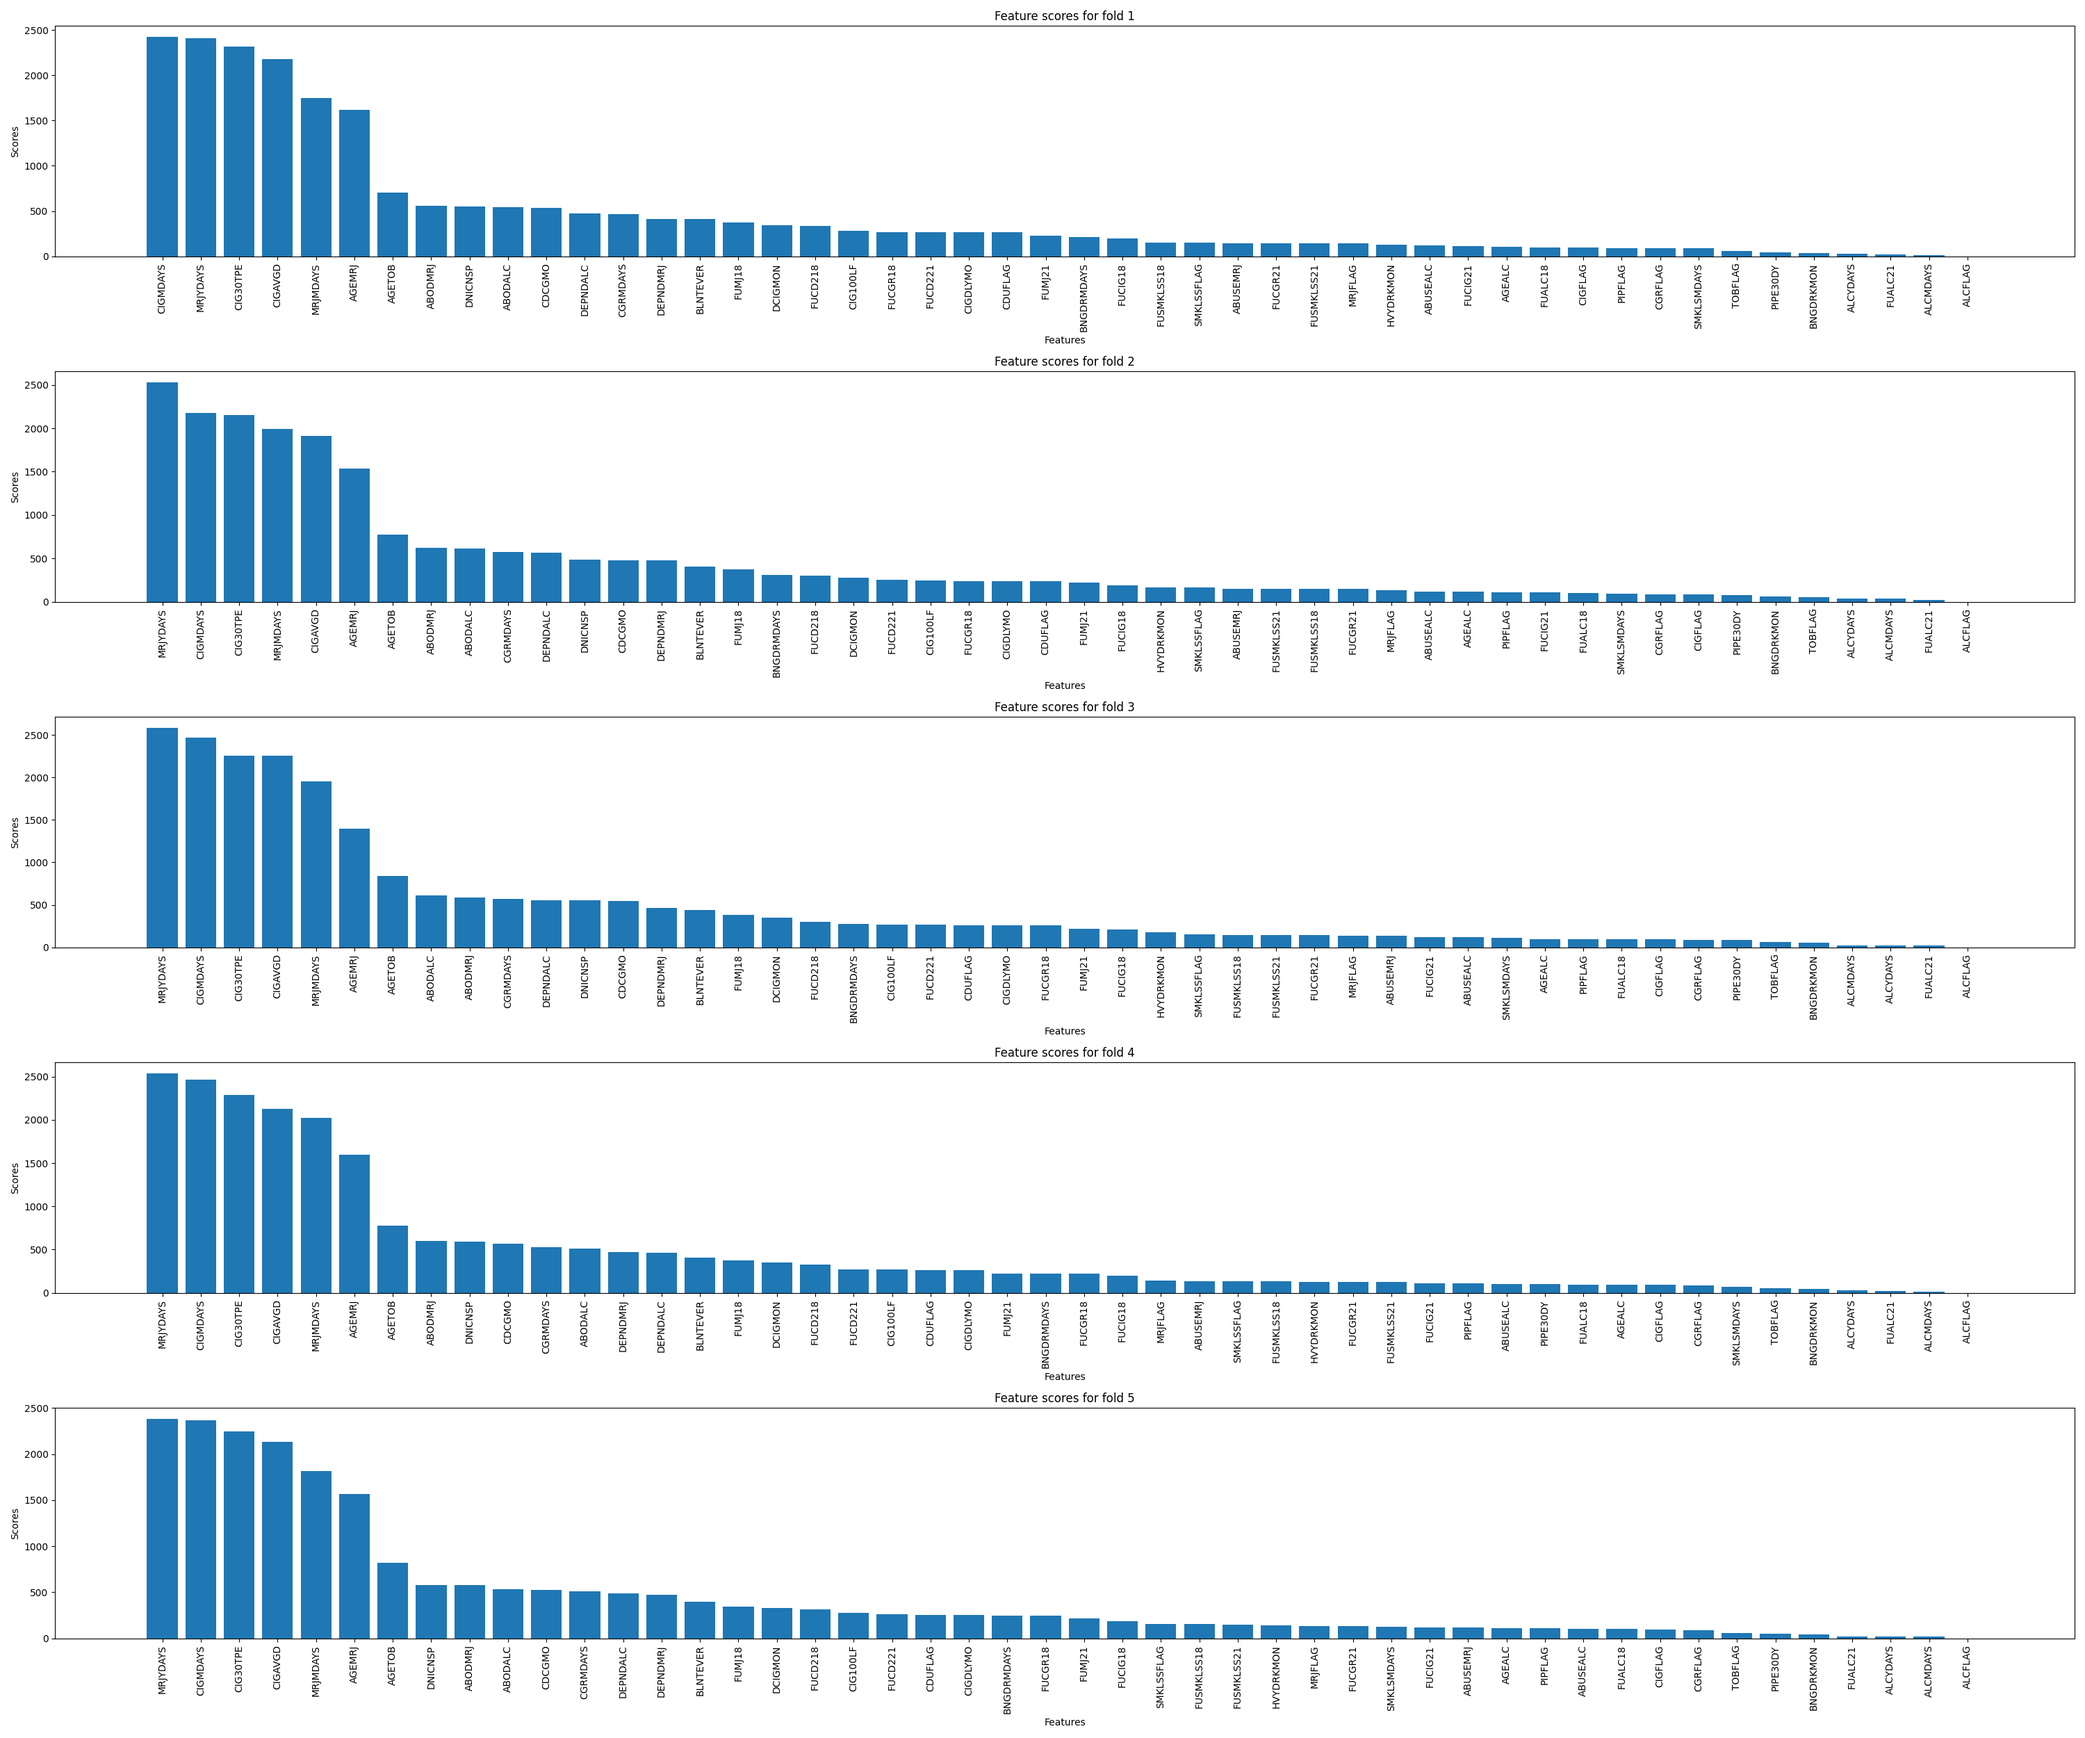
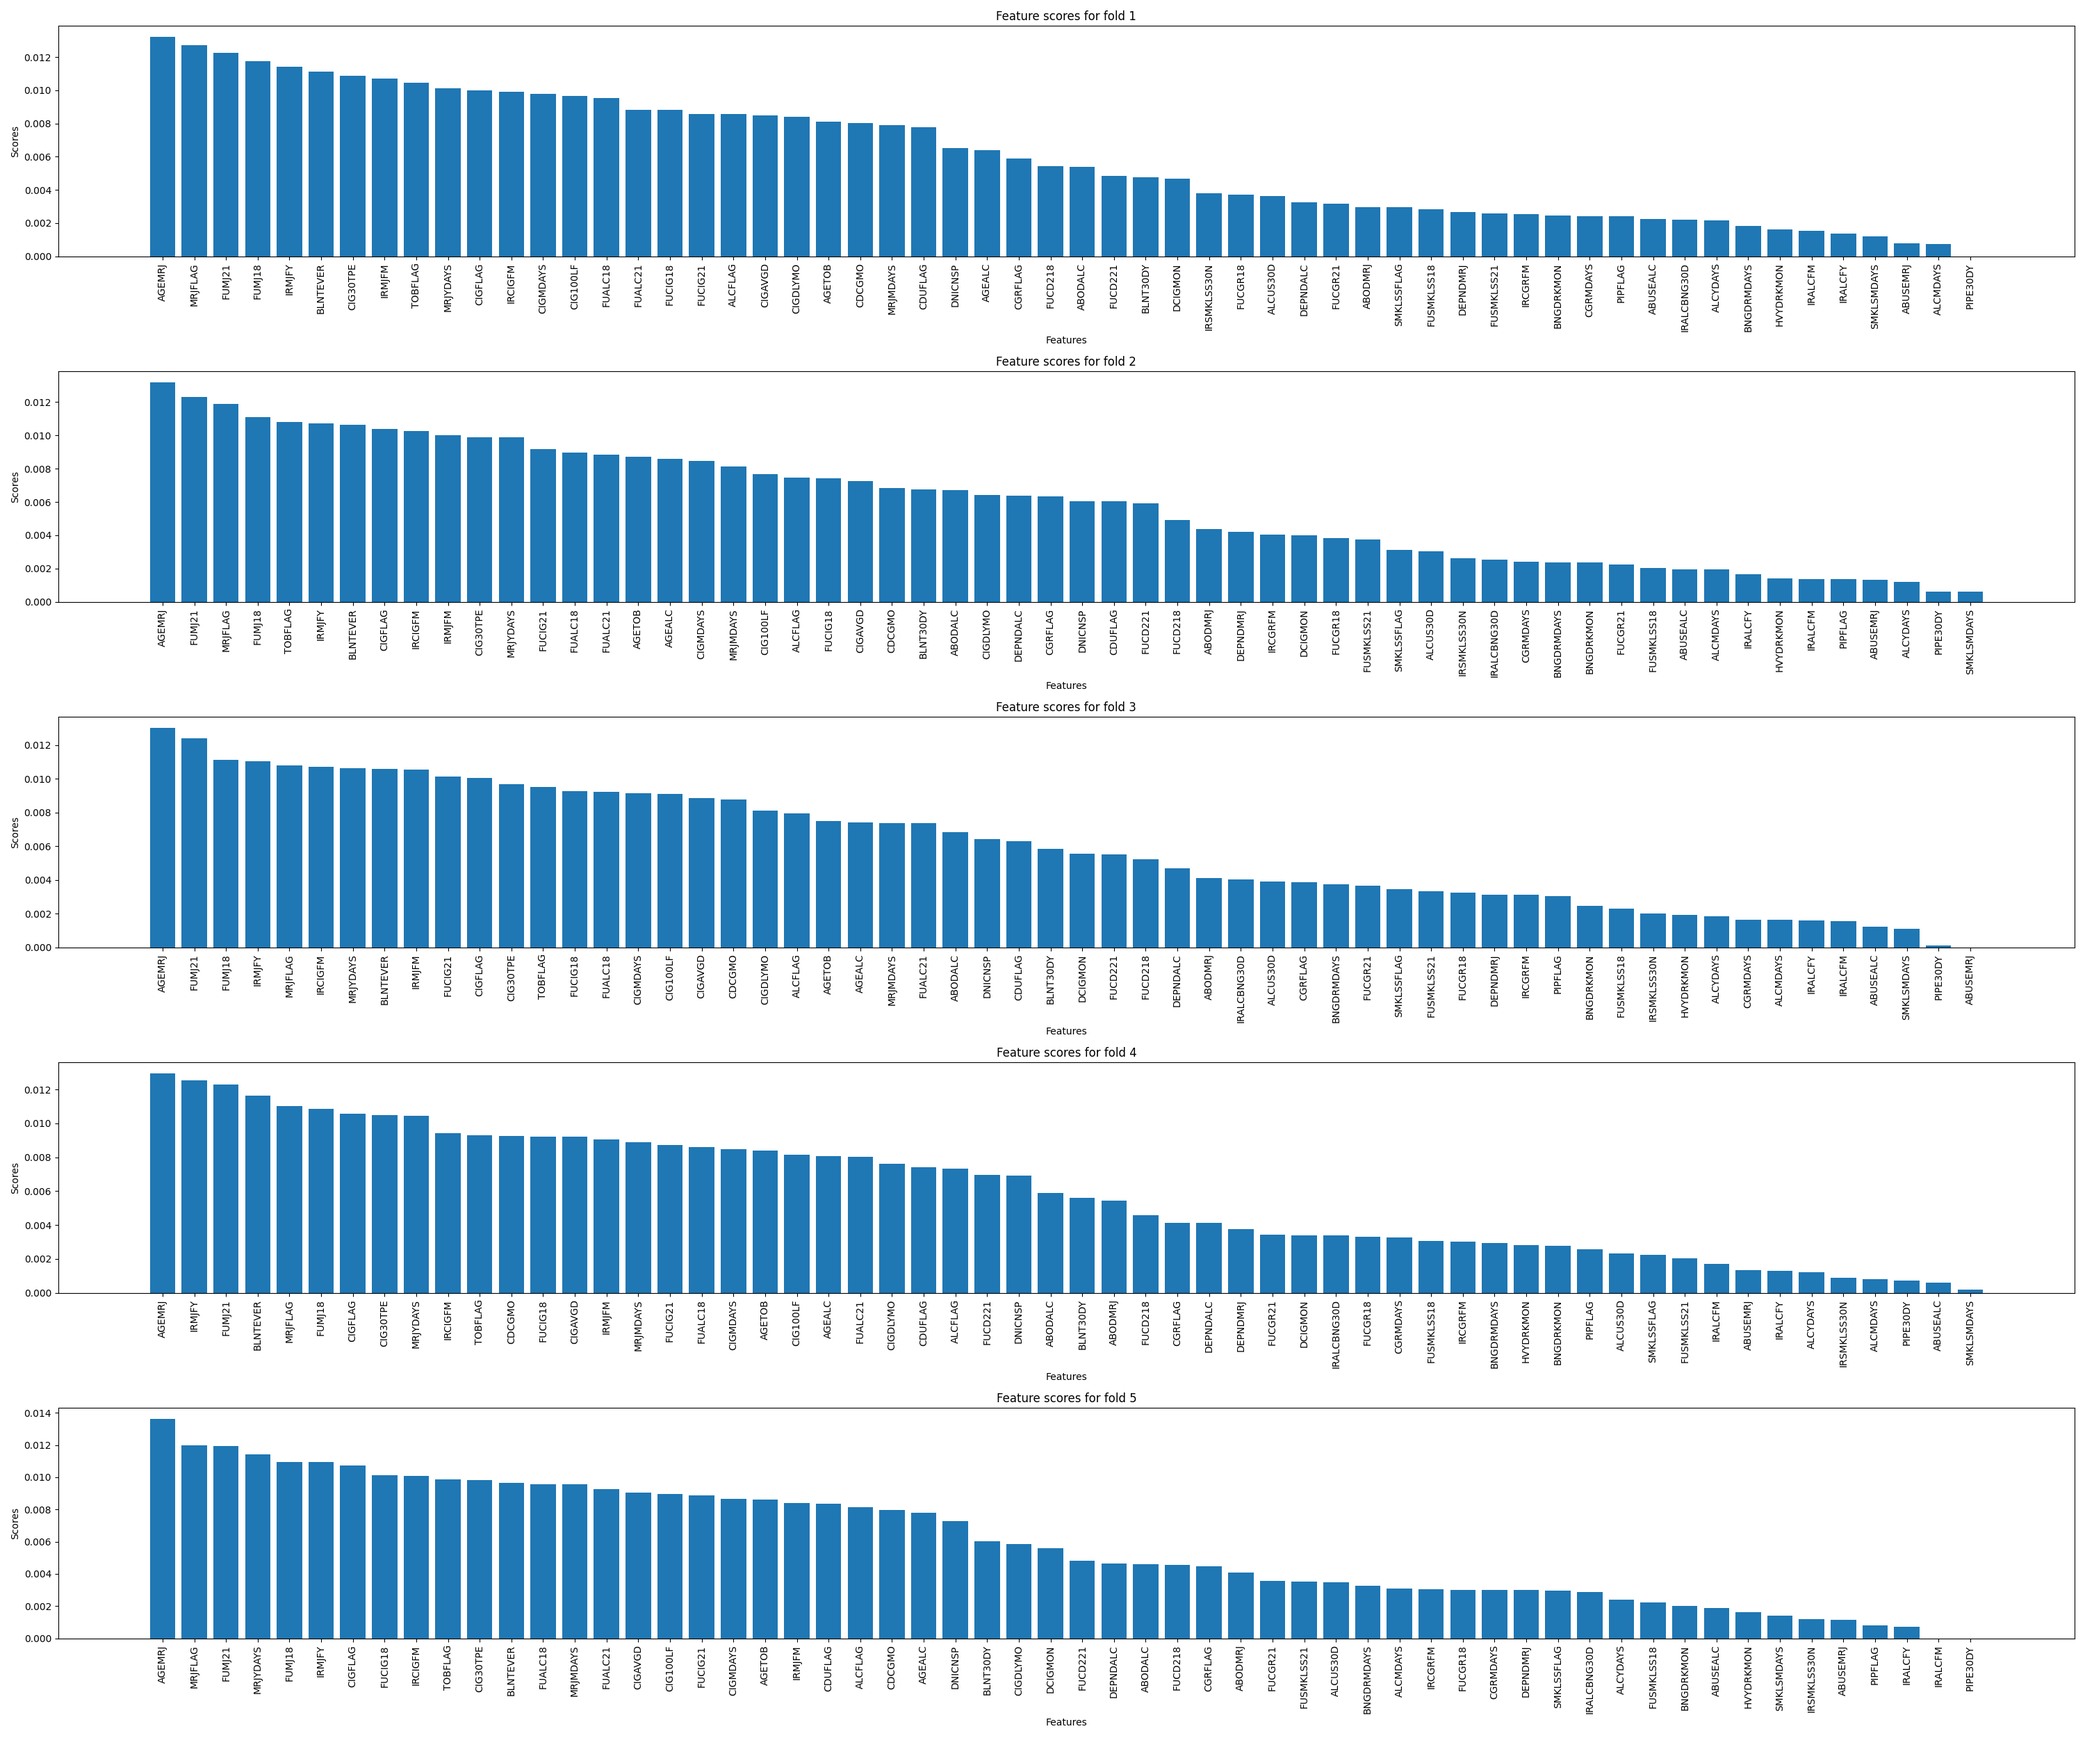
Feature selection mit bilder

diff --git a/Feature_Selection_2.py b/Feature_Selection_2.py
@@ -166,7 +166,7 @@ def eval(y,X,clf,ax,legend_entry='my legendEntry'):
     tn, fp, fn, tp = confusion_matrix(y, y_pred).ravel()
 
     #accuracy prolly useneh --> unbalanced also wird eh nicht viel aussagen
-    accuracy = accuracy_score(y, y_pred)
+    #accuracy = accuracy_score(y, y_pred)
     precision = precision_score(y,y_pred)
     recall = recall_score(y,y_pred)
     f1 = f1_score(y,y_pred)
@@ -175,19 +175,19 @@ def eval(y,X,clf,ax,legend_entry='my legendEntry'):
 
     roc_auc = auc(fp_rates,tp_rates)
     ax.plot(fp_rates, tp_rates, label=f'Classifier fold {legend_entry} ')
-    return [accuracy, precision,recall,specificity,f1,roc_auc]
+    return [precision,recall,specificity,f1,roc_auc]
 
 def selection(X_train,y_train,how,n,what,ax, title='entry'):
     #um von allen den score zu erhalten eifach n= 'all' setzen
     #how möglichkeiten: [chi2,f_classif,mutual_info_classif] also oben bei tests = ...
     UVFS_Selector = SelectKBest(score_func=how, k=n)
     X_selected = UVFS_Selector.fit_transform(X_train,y_train)
-    if what == 'scores':
+    #if what == 'test':
         # in vorlesung zu Categorical output und numerical input kendall benutzen, wie? --> Zu kompliziert
         # vorallem wären hier scores wichtig, welchen test für nicht normalverteilte?
-        return UVFS_Selector.scores_
-    if what == 'features':
-        return UVFS_Selector.get_support()
+        #return UVFS_Selector
+    if what == 'auswertung':
+        return X_selected, UVFS_Selector
     #wenn what == mututal info nicht besten direkt suchen sondern alle werden bewertet --> evt einfacher zum nachher plotten
     if what == 'mutual info':
         mutual_info = mutual_info_classif(X_train,y_train)
@@ -239,7 +239,7 @@ def hyper(X,y,model,parameters,cv):
     #return [clf_GS.best_estimator_ , clf_GS.best_score_]
 
 def everything(data, model,param, random,what):
-    performance = pd.DataFrame(columns=['fold','clf','accuracy','precision','recall',
+    performance = pd.DataFrame(columns=['fold','clf','precision','recall',
                                          'specificity','F1','roc_auc'])
     num_cols = data.select_dtypes(include=['Int64','float64']).columns.tolist()
     cate_cols = data.select_dtypes(include=['object','category']).columns.tolist()
@@ -253,20 +253,19 @@ def everything(data, model,param, random,what):
             ordinal.append(col)
         else:
             nominal.append(col)
-    #all_columns = ordinal + nominal + num_cols
-    #X_enc = pd.get_dummies(X,columns=nominal,drop_first=True)
     splits = 5
     cv = StratifiedKFold(n_splits=splits, shuffle=True, random_state=random)
     fold = 0
     tuning = pd.DataFrame(columns=list(param.keys()),index=np.arange(splits))
+    #Figures für die Feature selection bilder
     fig,axs = plt.subplots(5,1,figsize=(30,25))
-    feature_sel = pd.DataFrame(columns=X.columns,index=np.arange(splits))
+    zeros = np.zeros((splits,len(X.columns.tolist())),dtype=int)
+    selected_features = pd.DataFrame(zeros, index=np.arange(splits),columns = X.columns)
+    #aus Homework 5
+    LR_normcoef = pd.DataFrame(index=X.columns,columns=np.arange(splits))
     for train_index, test_index in cv.split(X,y):
         X_train, X_test = X.iloc[train_index], X.iloc[test_index]
         y_train, y_test = y.iloc[train_index], y.iloc[test_index]
-        #sc = StandardScaler()
-        #X_train.loc[num_cols]=sc.fit_transform(X_train[num_cols])
-        #X_test.loc[num_cols]=sc.transform(X_test[num_cols])
         X_train_copy = X_train.copy()
         X_test_copy = X_test.copy()
         num_cols_test = X_test.select_dtypes(include=['Int64', 'float64']).columns.tolist()
@@ -278,22 +277,15 @@ def everything(data, model,param, random,what):
                 ordinal_test.append(col)
             else:
                 nominal_test.append(col)
-        #transformer = ColumnTransformer(transformers=[('ordinal', OrdinalEncoder(handle_unknown='use_encoded_value',unknown_value=np.nan),ordinal),('binary', OneHotEncoder(handle_unknown='ignore'),nominal),('num',StandardScaler(),num_cols)])
         transformer = ColumnTransformer(transformers=[('ordinal', OrdinalEncoder(handle_unknown='use_encoded_value',unknown_value=np.nan),ordinal),('num',StandardScaler(),num_cols)])
         X_train = transformer.fit_transform(X_train)
-        #binary = transformer.named_transformers_['binary'].get_feature_names_out().tolist()
-
-        #all_columns = ordinal + binary+ num_cols
         all_columns = ordinal + num_cols
         X_train = pd.DataFrame(X_train, columns=all_columns, index=X_train_copy.index)
         X_train = pd.concat([X_train,X_train_copy[nominal]],axis=1)
         X_test = transformer.transform(X_test)
-        #binary_test = transformer.named_transformers_['binary'].get_feature_names_out(nominal_test).tolist()
-        #all_columns_test = ordinal_test + binary_test + num_cols_test
         all_columns_test = ordinal_test + num_cols_test
         X_test = pd.DataFrame(X_test, columns=all_columns_test, index=X_test_copy.index)
         X_test = pd.concat([X_test,X_test_copy[nominal_test]])
-
         #hyperparameter welcher am besten passt finden und in tuning speichern --> am schluss schauen und according zu dem die Hyperparameter setzen:
         tuning.loc[fold,list(param.keys())] = list(map(hyper(X_train,y_train,model,param,5).best_estimator_.get_params().get, list(param.keys())))
 
@@ -301,8 +293,39 @@ def everything(data, model,param, random,what):
 
         #bild welches für alle 5 folds die Feature scores zeigt --> anschauen und dann auswählen welche am besten sind
         #selection(X_train,y_train,mutual_info_classif,'all','mutual info',axs[fold],title = str(fold+1))
-        #die besten auswählen (Cat input, cat output)
-        selection(X_train[cate_cols],y_train,chi2,'all','pic',axs[fold], title =str(fold+1))
+        #Bild von Feature scores Chi2 (Cat input, cat output)
+        #selection(X_train[cate_cols],y_train,chi2,'all','pic',axs[fold], title =str(fold+1))
+        #Bild von Feature scores f_classif
+        #selection(X_train[num_cols],y_train,f_classif,'all','pic',axs[fold], title =str(fold+1))
+        #gleiche für mutual_info_classif
+        #selection(X_train, y_train, mutual_info_classif, 'all', 'pic', axs[fold], title=str(fold + 1))
+
+        #grobe Feature Selection (Univariate feature selection --> jztmal die 45 besten auswählen --> da in allen 5 folds ungefähr die gleichen gut
+        X_train_UVFS, UVFS_Selector = selection(X_train,y_train,mutual_info_classif,45,'auswertung',axs,title='entry')
+        clf = model
+        clf.fit(X_train_UVFS,y_train)
+
+        #hier wenn ich Logistic Regression mache dass es die Feature importance (normalized) abspeichert um nachher ein barplot damit zu machen um die besten zu sehen
+        LR = 'LogisticRegression'
+        which_model = str(model)
+        if LR in which_model:
+            this_LR_coefs = pd.DataFrame(zip(list(UVFS_Selector.get_feature_names_out()), np.transpose(clf.coef_[0])),columns=['features','coef'])
+            LR_normcoef.loc[list(UVFS_Selector.get_feature_names_out()),fold] = this_LR_coefs['coef'].values/this_LR_coefs['coef'].abs().sum()
+        sel_ = SelectFromModel(clf, prefit=True)
+        sel_.fit(X_train_UVFS,y_train)
+        X_train_L1 = sel_.transform(X_train_UVFS)
+        clf.fit(X_train_L1,y_train)
+        #X_test_UVFS = UVFS_Selector.transform(X_test)
+        #sel_ = SelectFromModel(clf, prefit=True)
+        #selected_features.loc[fold, list(sel_.get_feature_names_out())] += 1
+
+        #X_train = sel_.transform(X_train_UVFS)
+        #X_test = sel_.transform(X_test_UVFS)
+
+        #eval_metrics = eval(y_train,X_train_UVFS,)
+
+
+
 
 
 
@@ -314,9 +337,28 @@ def everything(data, model,param, random,what):
     if what == 'feature selection':
         plt.tight_layout()
         plt.savefig('figures/Feature_Selection.png')
+    if what == 'feature importance LR':
+        LR_avg = LR_normcoef.mean(axis=1).sort_values(ascending=False, key=abs)
+        error = LR_normcoef.std(axis=1)[LR_avg.index.tolist()]
+        plt.figure(figsize=(16,9))
+        #plt.clf()
+        plt.style.use('ggplot')
+        plt.bar(LR_avg.index, LR_avg, yerr=error, align='center', error_kw={'ecolor':'k', 'capsize':3})
+        plt.xticks(LR_avg.index,rotation=90)
+        plt.title('Normalized feature importance for LR across 5 folds')
+        plt.xlabel('Feature')
+        plt.ylabel('Normalized feature importance')
+        plt.tight_layout()
+        plt.savefig('figures/Feature_Importance_LR.png')
+    if what == 'selected Features':
+        print(selected_features.sum(axis=1))
 #bevor implementieren schauen welche parameter auswählen damit man die eingeben kann
 #embedded methods für feature selection abhängig von der model wahl --> z.b. bei logistic regression lasso, ridge möglich; bei Random Forest feature importance (alles durch die Funktion SelectFromModel(model([hypterparameters().best_params_]])) = irgendwas --> das dann .fit etc
 #SelectFromModel() kann bei allen estimators verwendet werden welche attribute coef_ oder feature_importances_ hat
 parameter ={'C':[0.001,0.01,0.1,1,10]}
-everything(data,LogisticRegression(class_weight='balanced',max_iter=1000),parameter,1,'feature selection')
-#print(everything(data,LogisticRegression(class_weight='balanced',max_iter=1000),parameter,1).head(1))
+#everything(data,LogisticRegression(class_weight='balanced',max_iter=1000),parameter,1,'feature selection')
+#Hyperparameter tuning:
+#print(everything(data,LogisticRegression(class_weight='balanced',max_iter=1000),parameter,1, 'hyperparameter'))
+#C=0.1 am besten
+#everything(data,LogisticRegression(class_weight='balanced',max_iter=1000, C=0.1),parameter,1,'feature selection')
+everything(data,LogisticRegression(class_weight='balanced',max_iter=1000, C=0.1),parameter,1,'feature importance LR')
